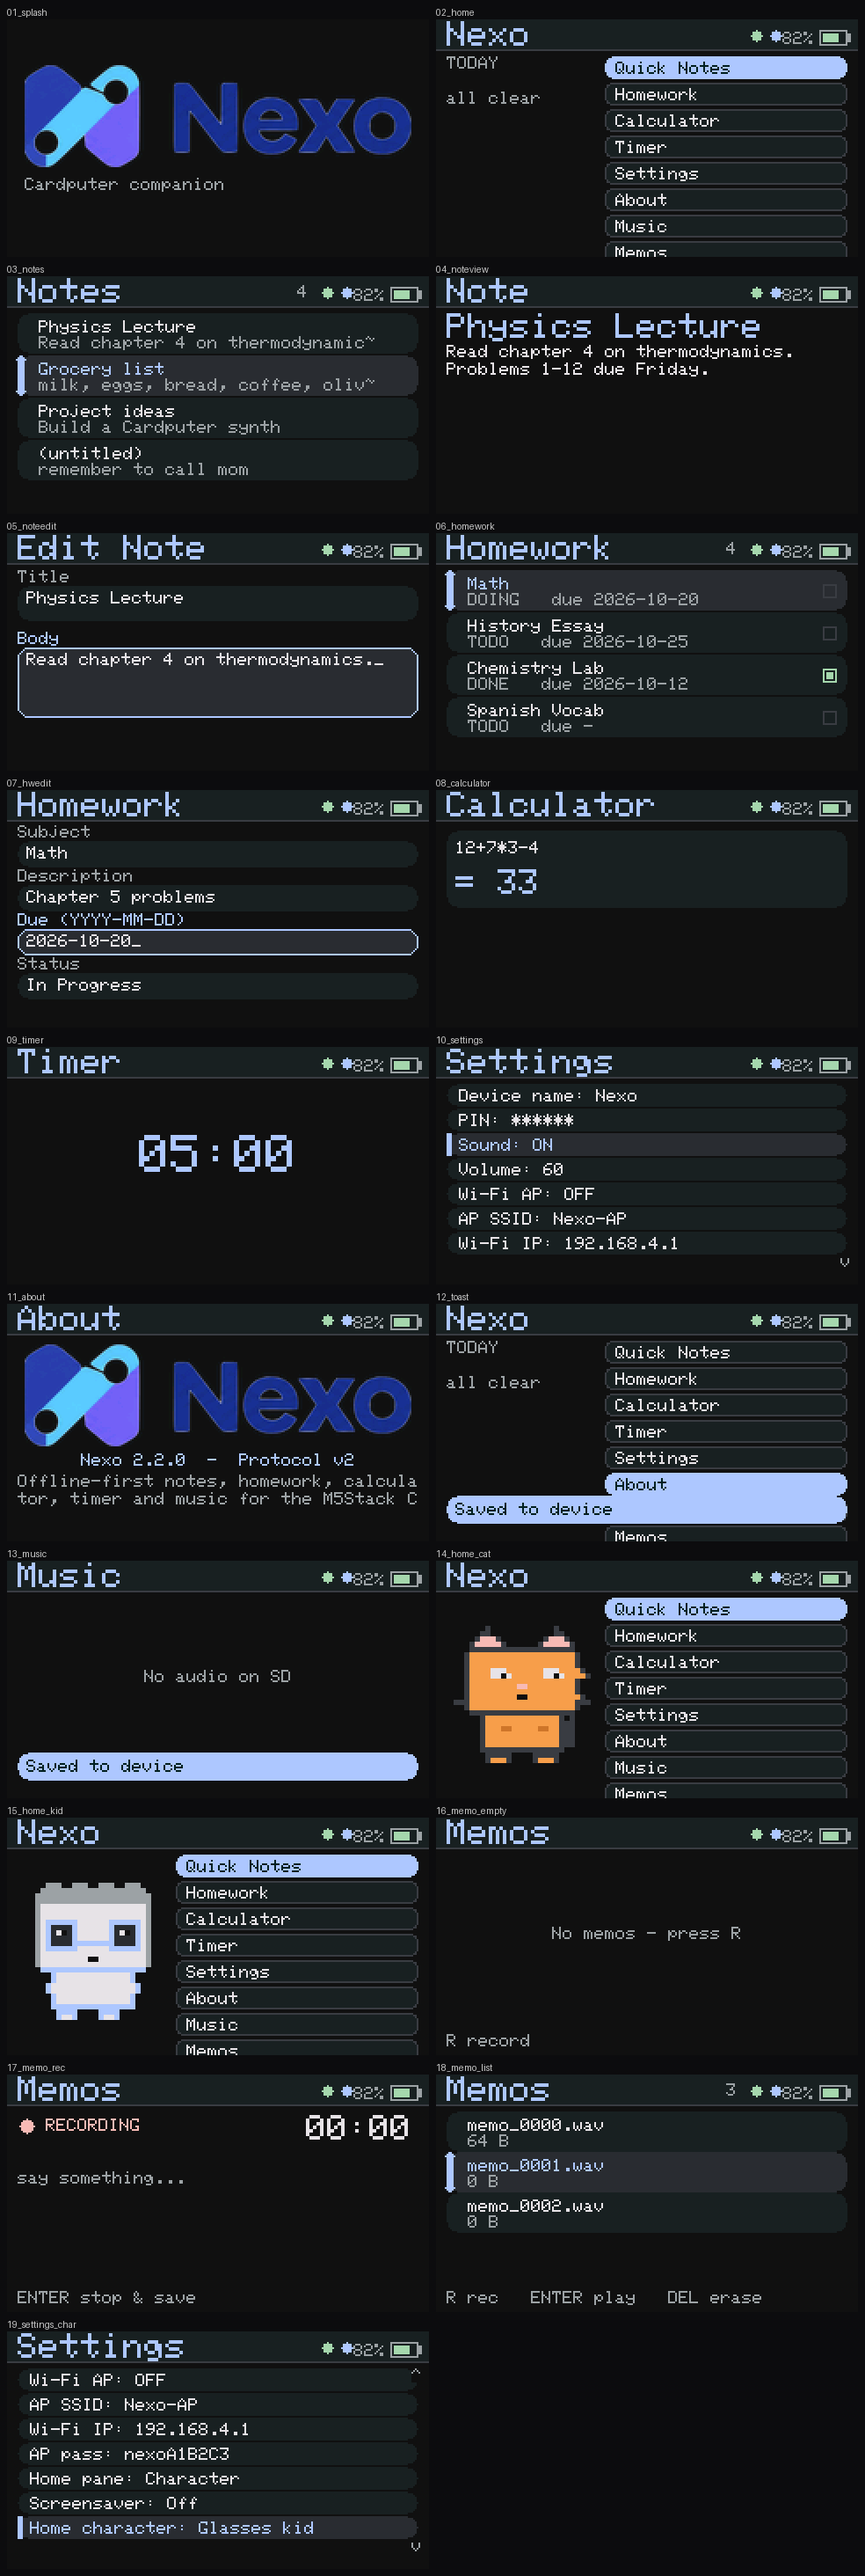
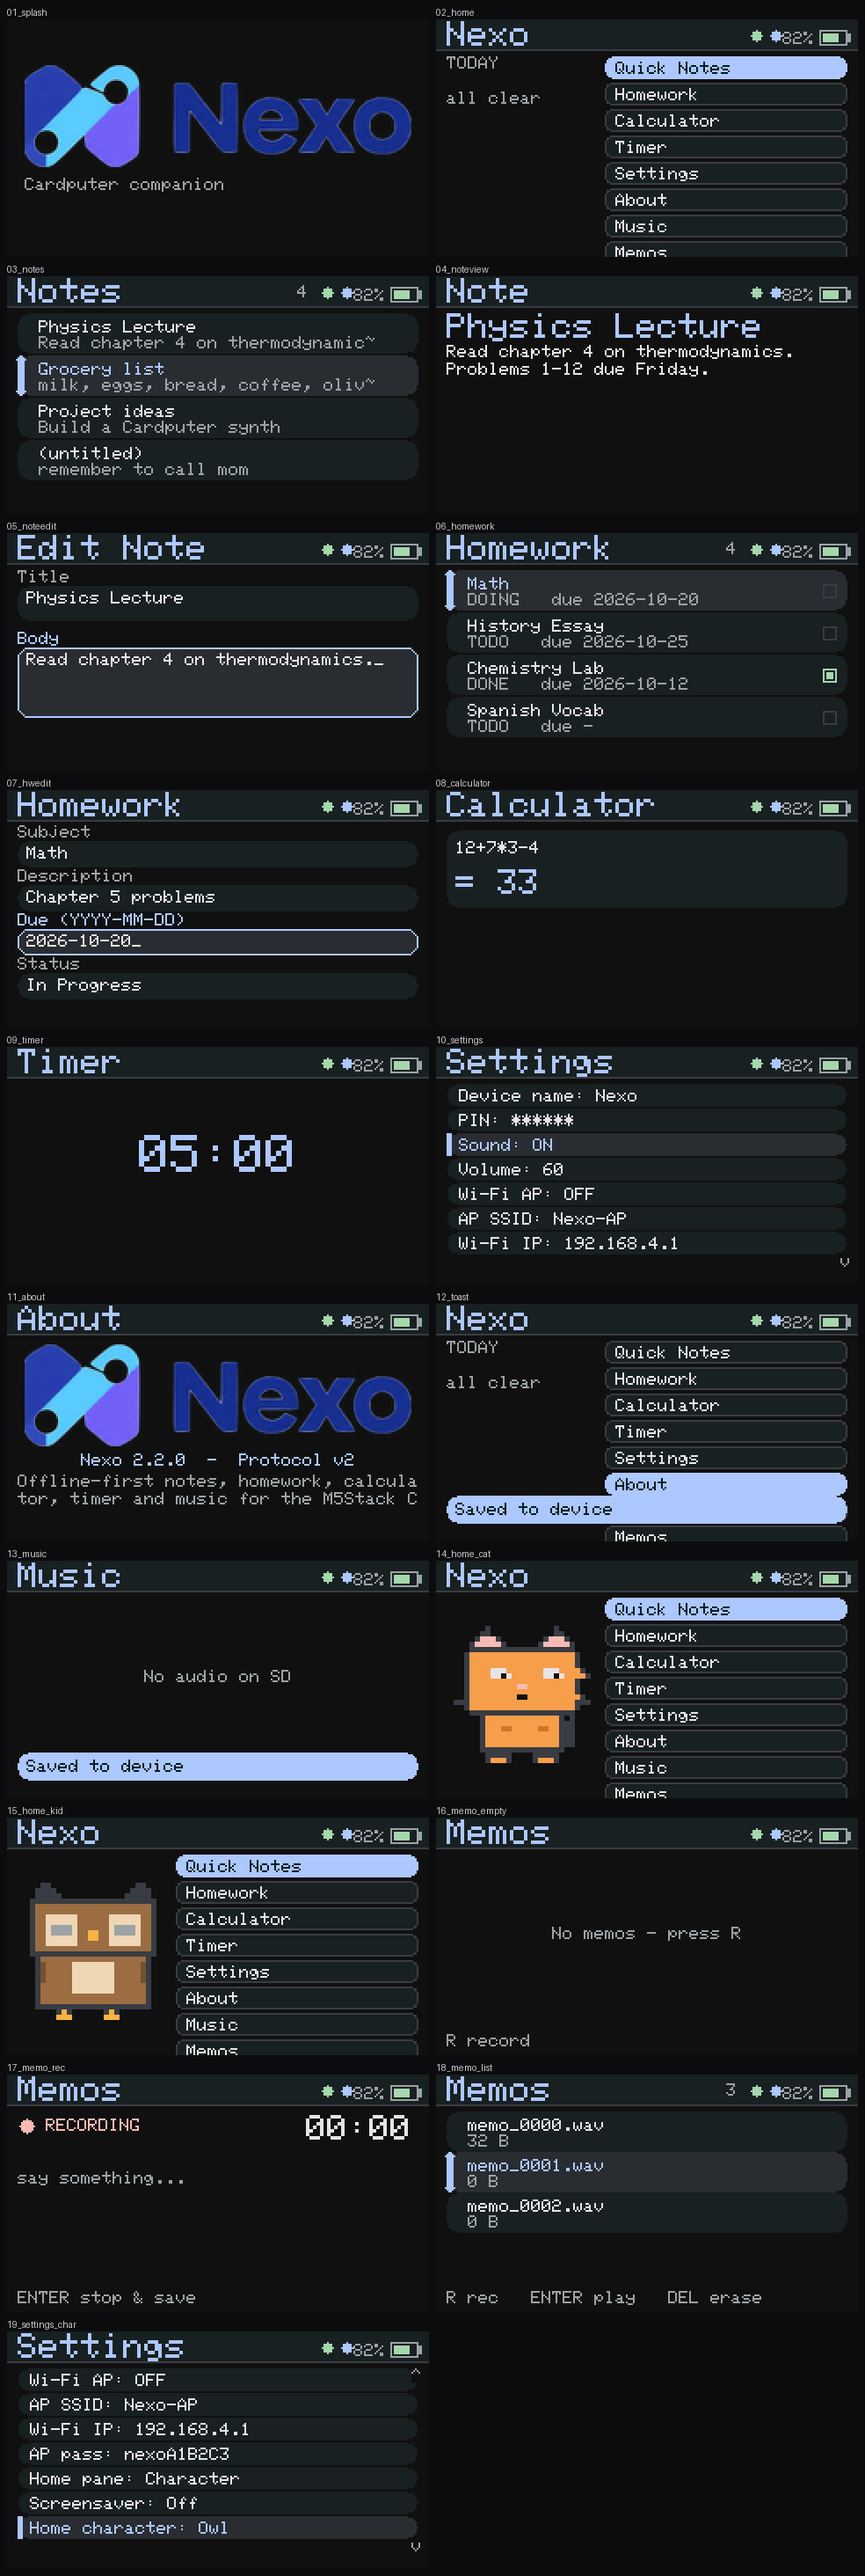
v2.2.1: 8-bit owl replaces kid; memo scroll index on screen; labels/docs; preview+emu rebuilt; orange cat; BLE multi-central fix

Changed region(s): [[0.0305, 0.7148, 0.1829, 0.8081]]

diff --git a/firmware/src/ui/ui.cpp b/firmware/src/ui/ui.cpp
@@ -293,28 +293,43 @@ constexpr int kArtScale = 3;
 // Orange tabby palette for the cat.
 constexpr uint16_t kFur = rgb(240, 158, 75);
 constexpr uint16_t kFurDark = rgb(201, 119, 46);
+// Warm brown palette for the owl.
+constexpr uint16_t kOwl = rgb(154, 108, 70);
+constexpr uint16_t kOwlDark = rgb(118, 80, 50);
+constexpr uint16_t kOwlBelly = rgb(233, 213, 178);
+constexpr uint16_t kBeak = rgb(242, 178, 66);
 
-// '#' outline  'f' fur  'F' fur shade  'e' eye  'u' pupil
-// 'p' pink     'h' hair 'g' glasses    'w' lens 's' skin   '.' transparent
-uint16_t artColor(char c, bool cat)
+// Cat: '#' outline  'f' fur  'F' fur shade  'p' pink  'e' eye  'u' pupil
+//      ':' whisker
+// Owl: '#' outline  'b' body 'B' wing  'w' belly  'y' beak  'e' eye  'u' pupil
+uint16_t artColor(char c, int kind)
 {
-    switch (c) {
-        case '#': return cat ? kOutline : kPrimary;
-        case 'f': return cat ? kFur : kSurface;
-        case 'F': return cat ? kFurDark : kSurfaceVariant;
+    if (kind == 1) {  // owl
+        switch (c) {
+            case '#': return kOutline;
+            case 'b': return kOwl;
+            case 'B': return kOwlDark;
+            case 'w': return kOwlBelly;
+            case 'y': return kBeak;
+            case 'e': return kOnSurface;
+            case 'u': return kOnSurfaceVariant;
+            case ':': return kOutline;
+        }
+        return 0;
+    }
+    switch (c) {  // cat
+        case '#': return kOutline;
+        case 'f': return kFur;
+        case 'F': return kFurDark;
+        case 'p': return kError;
         case 'e': return kOnSurface;
         case 'u': return kBackground;
-        case 'p': return kError;
-        case 'h': return kOnSurfaceVariant;
-        case 'g': return kPrimary;
-        case 'w': return kSurfaceVariant;
-        case 's': return kOnSurface;
-        case ':': return kOutline;  // whiskers
-        default: return 0;
+        case ':': return kOutline;
     }
+    return 0;
 }
 
-void blitArt(const char* const* rows, int x, int y, bool cat)
+void blitArt(const char* const* rows, int x, int y, int kind)
 {
     auto& d = M5Cardputer.Display;
     for (int r = 0; r < kArtH; ++r) {
@@ -322,7 +337,7 @@ void blitArt(const char* const* rows, int x, int y, bool cat)
         for (int c = 0; c < kArtW && line[c]; ++c) {
             if (line[c] == '.') continue;
             d.fillRect(x + c * kArtScale, y + r * kArtScale, kArtScale, kArtScale,
-                       artColor(line[c], cat));
+                       artColor(line[c], kind));
         }
     }
 }
@@ -335,13 +350,12 @@ void blinkCat(int x, int y)
     d.fillRect(x + 16 * kArtScale, y + 9 * kArtScale, 3 * kArtScale, kArtScale, kOutline);
 }
 
-void blinkKid(int x, int y)
+void blinkOwl(int x, int y)
 {
     auto& d = M5Cardputer.Display;
-    d.fillRect(x + 5 * kArtScale, y + 9 * kArtScale, 4 * kArtScale, kArtScale, kPrimary);
-    d.fillRect(x + 17 * kArtScale, y + 9 * kArtScale, 4 * kArtScale, kArtScale, kPrimary);
+    d.fillRect(x + 4 * kArtScale, y + 8 * kArtScale, 6 * kArtScale, kArtScale, kOutline);
+    d.fillRect(x + 16 * kArtScale, y + 8 * kArtScale, 6 * kArtScale, kArtScale, kOutline);
 }
-}  // namespace
 
 // A bobbing, blinking cat: ears, whiskers, tail.
 static const char* const kCatArt[kArtH] = {
@@ -360,31 +374,33 @@ static const char* const kCatArt[kArtH] = {
     "......#####....#####......", "......#fff#....#fff#......",
 };
 
-// A little kid with big round glasses.
-static const char* const kKidArt[kArtH] = {
-    "....hhh..hhh..hhh..hhh....", "...hhhhhhhhhhhhhhhhhhhh...",
-    "..hhhhhhhhhhhhhhhhhhhhhh..", "..hhhhhhhhhhhhhhhhhhhhhh..",
-    "..hssssssssssssssssssssh..", "..hssssssssssssssssssssh..",
-    "..hssssssssssssssssssssh..", "..hsggggggssssssggggggsh..",
-    "..hsgwwwwgssssssgwwwwgsh..", "..hsgweuwgssssssgweuwgsh..",
-    "..hsgwwwwgssssssgwwwwgsh..", "..hsgwwwwggggggggwwwwgsh..",
-    "..hsggggggssssssggggggsh..", "..hssssssssssssssssssssh..",
-    "..hsssssssssuusssssssssh..", "..hssssssssssssssssssssh..",
-    "...####################...", ".....#ssssssssssssss#.....",
-    ".....#ssssssssssssss#.....", "....#ssssssssssssssss#....",
-    "....#ssssssssssssssss#....", ".....#ssssssssssssss#.....",
-    ".....#ssssssssssssss#.....", ".....################.....",
-    "......####....####........", "......#ss#....#ss#........",
+// A round little owl: ear tufts, big eyes, a beak and folded wings.
+static const char* const kOwlArt[kArtH] = {
+    "...##................##...", "..####..............####..",
+    "..#####............#####..", ".########################.",
+    ".#bbbbbbbbbbbbbbbbbbbbbb#.", ".#bbbbbbbbbbbbbbbbbbbbbb#.",
+    ".#bbwwwwwwbbbbbbwwwwwwbb#.", ".#bbwwwwwwbbbbbbwwwwwwbb#.",
+    ".#bbwuuuuwbbbbbbwuuuuwbb#.", ".#bbwuuuuwbbyybbwuuuuwbb#.",
+    ".#bbwwwwwwbbyybbwwwwwwbb#.", ".#bbwwwwwwbbbbbbwwwwwwbb#.",
+    ".#bbbbbbbbbbbbbbbbbbbbbb#.", ".########################.",
+    "..#bbbbbbbbbbbbbbbbbbbb#..", "..#BbbbbbwwwwwwwwbbbbbB#..",
+    "..#BbbbbbwwwwwwwwbbbbbB#..", "..#BbbbbbwwwwwwwwbbbbbB#..",
+    "..#BbbbbbwwwwwwwwbbbbbB#..", "..#bbbbbbwwwwwwwwbbbbbb#..",
+    "..#bbbbbbwwwwwwwwbbbbbb#..", "..#bbbbbbbbbbbbbbbbbbbb#..",
+    "..#bbbbbbbbbbbbbbbbbbbb#..", "..######################..",
+    "......#y#......#y#........", "......yyy......yyy........",
 };
+
+}  // namespace
 
 void Ui::drawCharacter(int x, int y, int w, int h)
 {
     int bx = x + (w - kArtW * kArtScale) / 2;
     int by = y + (h - kArtH * kArtScale) / 2 + (int)((millis() / 500) % 2);
-    bool kid = homeChar_ == 1;
-    blitArt(kid ? kKidArt : kCatArt, bx, by, !kid);
+    bool owl = homeChar_ == 1;
+    blitArt(owl ? kOwlArt : kCatArt, bx, by, owl ? 1 : 0);
     if ((millis() % 4000u) >= 3850u) {  // brief blink every ~4s
-        if (kid) blinkKid(bx, by);
+        if (owl) blinkOwl(bx, by);
         else blinkCat(bx, by);
     }
 }
@@ -543,7 +559,7 @@ void Ui::drawSettings()
         "AP pass: " + std::string(wifi_ ? wifi_->apPassword().c_str() : "-"),
         std::string("Home pane: ") + (homePane_ == 1 ? "Character" : "Due today"),
         std::string("Screensaver: ") + (screensaver_ ? "Flip clock" : "Off"),
-        std::string("Home character: ") + (homeChar_ == 1 ? "Glasses kid" : "Cat"),
+        std::string("Home character: ") + (homeChar_ == 1 ? "Owl" : "Cat"),
         std::string("Lab tools: ") + (labUnlocked_ ? "unlocked" : "locked"),
         "Save & persist",
     };
@@ -692,7 +708,9 @@ void Ui::drawMemo()
     }
     d.setTextColor(kOnSurfaceVariant, kBackground);
     d.setCursor(kPad, kH - 12);
-    d.print("R rec   ENTER play   DEL erase");
+    char _f[40];
+    snprintf(_f, sizeof(_f), "R rec  ENTER play  DEL del   %d/%d", memoSel_ + 1, count);
+    d.print(_f);
 }
 
 void Ui::drawClock()
@@ -1362,7 +1380,7 @@ void Ui::handleKeys()
                 } else if (settingsSel_ == 10) {
                     homeChar_ = homeChar_ ? 0 : 1;
                     savePrefs();
-                    notify(homeChar_ ? "Character: glasses kid" : "Character: cat");
+                    notify(homeChar_ ? "Character: owl" : "Character: cat");
                 } else if (settingsSel_ == 11) {
                     labUnlocked_ = true;
                     savePrefs();

diff --git a/firmware/lib/nexo_core/src/nexo_types.h b/firmware/lib/nexo_core/src/nexo_types.h
@@ -19,7 +19,7 @@ constexpr size_t kMaxPinLen = 16;
 constexpr size_t kMinPinLen = 4;
 constexpr size_t kMaxTrackNameLen = 96;
 constexpr uint16_t kProtocolVersion = 2;
-constexpr const char* kNexoVersion = "2.2.0";
+constexpr const char* kNexoVersion = "2.2.1";
 
 // Homework status
 enum class HomeworkStatus : uint8_t {

diff --git a/README.md b/README.md
@@ -18,7 +18,7 @@ pushes/pulls changes over a small, documented BLE protocol.
 
 <p align="center">
   <img src="docs/images/home-cat.png" alt="Home with the orange cat" width="320">
-  <img src="docs/images/home-kid.png" alt="Home with the glasses kid" width="320">
+  <img src="docs/images/home-owl.png" alt="Home with the owl" width="320">
 </p>
 
 A few more screens (Notes, Homework, Calculator, Timer, Settings, Music, Memos):
@@ -61,7 +61,7 @@ Nexo/
   Calculator, Timer, Music, Memos, Settings, About.
 - Voice memos: record to `/memos` on the SD card as 16 kHz mono WAV and play
   them back right on the device.
-- Home pane shows a little animated 8-bit character (orange cat or glasses kid),
+- Home pane shows a little animated 8-bit character (orange cat or owl (8-bit owl)),
   selectable in Settings.
 - MP3/WAV player: drop files in the `/music` folder of the SD card
   (ESP32-audioI2S + ES8311 codec), plus timer-alarm and UI sound effects.

diff --git a/docs/releases/2.2.0.md b/docs/releases/2.2.0.md
@@ -17,7 +17,7 @@ Home pane.
 
 ### Home character
 - The Home left pane can now show a little **8-bit character**: an orange **cat**
-  or a **glasses kid**, both animated (bobbing every few seconds with a blink).
+  or an **owl**, both animated (bobbing every few seconds with a blink).
 - Pick it in **Settings → Home character**; the choice is saved to preferences.
 
 ### Under the hood
